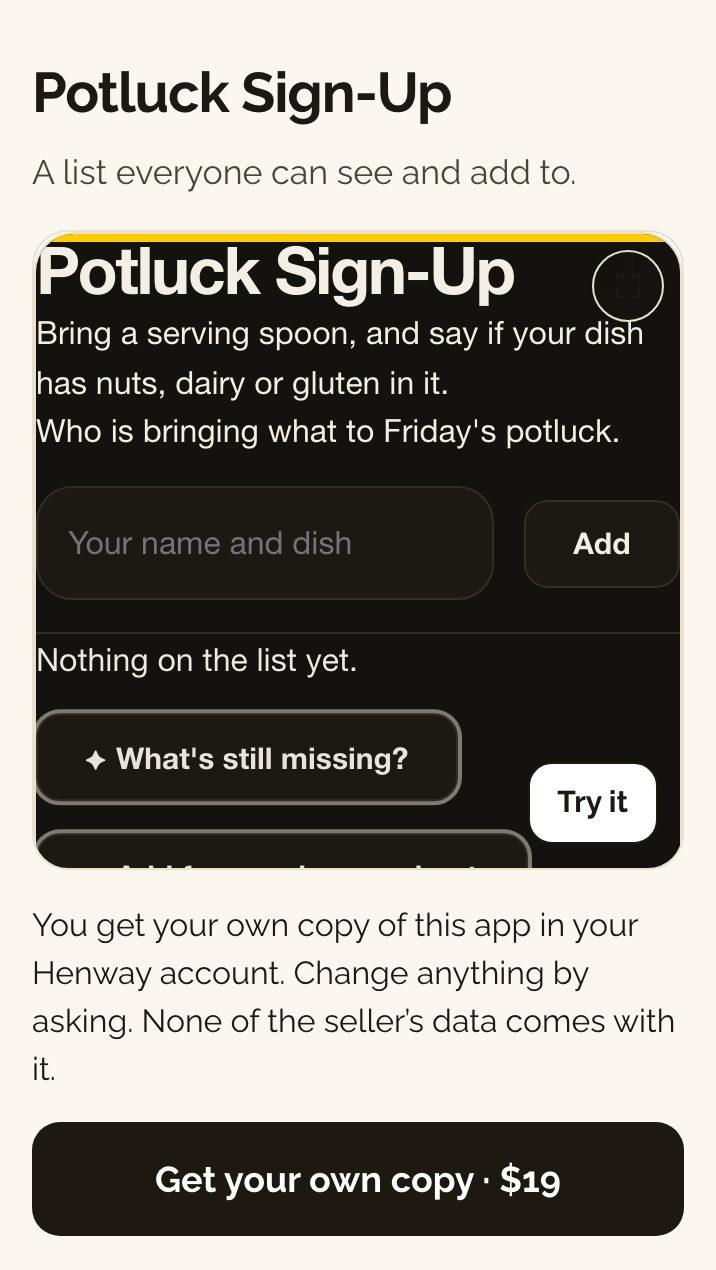
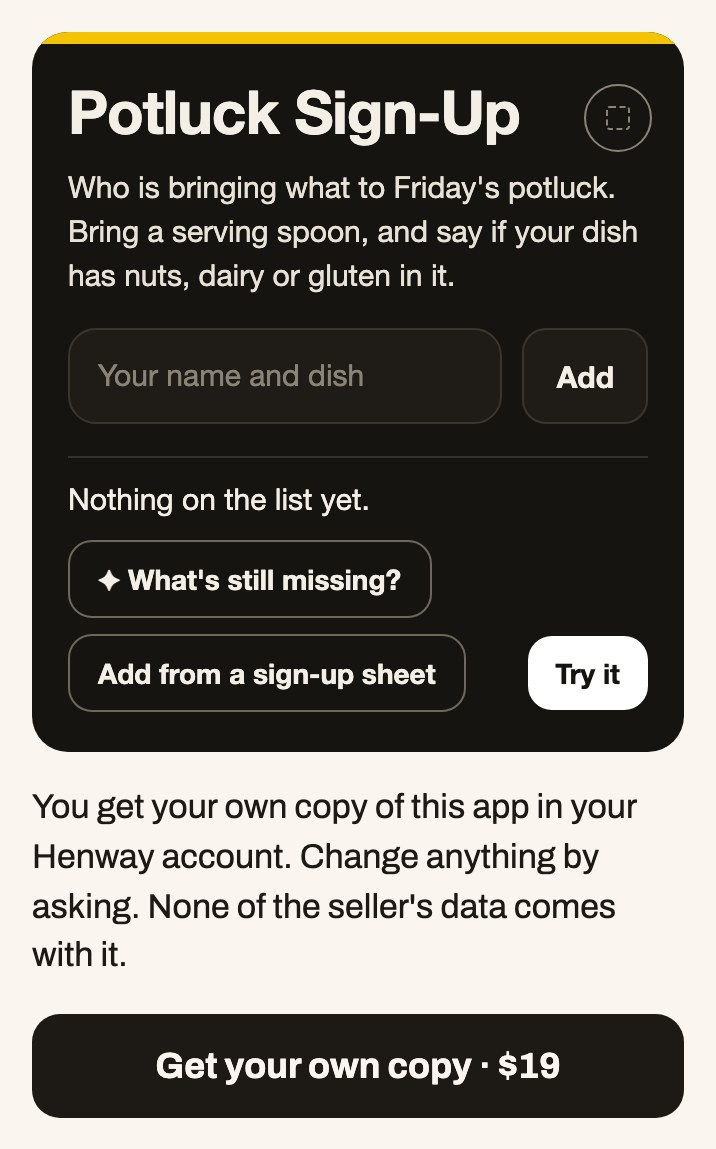
Mobile fixes: sell card capture, sub-nav fit, approved refund policy
- Home sell card 2: redrawn sell page at card width (source in
  scripts/v6/draw/sell-copy.html). No repeated app title, inner padding,
  no cut pill row, no max-height crop on desktop.
- Phone sub-nav: all five chips fit at 360 and 390 (14px, condensed,
  tighter padding). "Log in" no longer wraps at 360.
- Hero phone at <=380px renders text at 11px or more.
- /support refunds: Michael's approved policy replaces TODO-MICHAEL; the
  payments/copies line is gated behind payments. Pricing FAQ matches.
  /get-paid: "Henway's fee on it goes back too".
- Rubric: navfit, capfit, headwrap and site-wide TODO-MICHAEL checks, each
  shown failing on the prior build; 360 added to rubric and mobile widths.

diff --git a/site/pricing.html b/site/pricing.html
@@ -69,7 +69,7 @@ html.g-payments [data-ungate~=payments],html.g-copies [data-ungate~=copies],html
   <div class="big5" data-live="fee">5%</div>
   <h2 class="hh h2" style="margin-top:16px">Sell inside <span style="color:var(--yellow)">your app.</span></h2>
   <p class="lede">Classes, challenges, plans. Clients pay in the app. Henway's fee is 5% of each payment.</p>
-  <ul><li>No monthly charge</li><li>Stripe's card fee comes out of each payment</li><li>Refund a payment and Henway's 5% goes back too</li><li>Payouts to your bank, through Stripe</li><li><a href="/get-paid/setup">How setup works, step by step</a></li></ul></div>
+  <ul><li>No monthly charge</li><li>Stripe's card fee comes out of each payment</li><li>Refund a payment and Henway's fee on it goes back too</li><li>Payouts to your bank, through Stripe</li><li><a href="/get-paid/setup">How setup works, step by step</a></li></ul></div>
  <div class="vis" style="max-width:440px;justify-self:center;width:100%"><div class="wl"><div class="wlc">
    <div class="wlt">January Challenge</div><p class="wlp" style="color:#4d4d58">4 weeks with Coach Tasha</p>
    <div class="price">$40</div><div class="acts"><span class="wlb">Pay $40</span></div></div>
@@ -92,7 +92,7 @@ html.g-payments [data-ungate~=payments],html.g-copies [data-ungate~=copies],html
  <span class="kick">Questions</span>
  <div class="faq">
   <details><summary>Can I change my free app?</summary><p>Yes. Say what you want different and the app updates. Free apps change too.</p></details>
-  <details><summary>What happens after 6 months?</summary><p>If an app goes 6 months with nothing new saved, its saved data is cleared. The app itself stays. Apps you keep for $9, and apps on a paid plan, are kept as they are.</p></details><details id="refunds"><summary>Can I get a refund?</summary><p>See the refund policy on the <a href="/support#refunds">support page</a>.</p></details>
+  <details><summary>What happens after 6 months?</summary><p>If an app goes 6 months with nothing new saved, its saved data is cleared. The app itself stays. Apps you keep for $9, and apps on a paid plan, are kept as they are.</p></details><details id="refunds"><summary>Can I get a refund?</summary><ul class="refunds"><li><b>Keep an app, $9:</b> if your app doesn't do what you asked and we can't fix it, email <a href="mailto:support@henwayai.com?subject=Refund">support@henwayai.com</a> and we refund the $9. A refunded app goes back to the free limits.</li><li><b>Build it with Michael, $150:</b> full refund if you cancel at least 24 hours before. Inside 24 hours, you can move it once.</li><li data-gate="payments"><b>Payments and copies sold through your app:</b> you set your own refund policy. When you refund one, Henway's fee on it goes back too.</li></ul></details>
   <details><summary>What's an AI answer?</summary><p>Some apps have a button that reads a photo or suggests something. Each tap is one answer. Free apps get <span data-live="ai-free">20</span> a day. Kept apps get <span data-live="ai-paid">200</span>.</p></details>
   <details><summary>Is $9 a subscription?</summary><p>No. You pay once for each app you keep.</p></details>
  </div>

diff --git a/scripts/v6/draw/sell-copy.html b/scripts/v6/draw/sell-copy.html
@@ -1,0 +1,32 @@
+<!doctype html><html><head><meta name="viewport" content="width=device-width,initial-scale=1">
+<link href="https://fonts.googleapis.com/css2?family=Archivo:wdth,wght@62..125,400..900&display=swap" rel="stylesheet">
+<style>
+*{box-sizing:border-box;margin:0}
+html,body{background:#faf6ef}
+body{padding:16px 16px 18px;font-family:Archivo,system-ui,sans-serif;color:#1d1a15}
+.app{background:#161410;border-radius:18px;overflow:hidden;padding:24px 18px 20px;color:#f4efe6;font-family:"Helvetica Neue",Helvetica,Arial,sans-serif;position:relative}
+.app h4{font-size:30px;font-weight:800;letter-spacing:-.5px;line-height:1.1;padding-right:44px}
+.ex{position:absolute;right:16px;top:20px;width:34px;height:34px;border:1.5px solid #8a8478;border-radius:50%}
+.ex:after{content:"";position:absolute;inset:10px;border:1.5px dashed #8a8478;border-radius:2px}
+.app p{font-size:15px;line-height:1.45;margin-top:10px;color:#e8e2d6}
+.row{display:flex;gap:10px;margin-top:16px}
+.in{flex:1;border:1.5px solid #3a362e;background:#1f1c17;border-radius:14px;padding:14px;font-size:15px;color:#8a8478}
+.add{border:1.5px solid #3a362e;background:#1f1c17;border-radius:12px;padding:14px 16px;font-weight:700;font-size:15px}
+hr{border:0;border-top:1px solid #34302a;margin:16px 0 12px}
+.none{font-size:15px}
+.pills{display:flex;flex-wrap:wrap;gap:8px;margin-top:12px;align-items:center}
+.pill{border:1.5px solid #6d685e;border-radius:12px;padding:10px 14px;font-weight:700;font-size:14px}
+.try{margin-left:auto;background:#fff;color:#161410;border-radius:12px;padding:10px 14px;font-weight:700;font-size:14px}
+.say{font-size:17px;line-height:1.45;margin-top:16px}
+.buy{display:block;margin-top:16px;background:#1d1a15;color:#faf6ef;border-radius:14px;text-align:center;padding:16px;font-weight:700;font-size:18px}
+.app:before{content:"";position:absolute;left:0;right:0;top:0;height:6px;background:#f5c400}
+.ex{top:26px}</style></head><body>
+<div class="app"><h4>Potluck Sign-Up</h4><span class="ex"></span>
+<p>Who is bringing what to Friday's potluck. Bring a serving spoon, and say if your dish has nuts, dairy or gluten in it.</p>
+<div class="row"><div class="in">Your name and dish</div><div class="add">Add</div></div>
+<hr><div class="none">Nothing on the list yet.</div>
+<div class="pills"><span class="pill">✦ What's still missing?</span><span class="pill">Add from a sign-up sheet</span><span class="try">Try it</span></div>
+</div>
+<p class="say">You get your own copy of this app in your Henway account. Change anything by asking. None of the seller's data comes with it.</p>
+<span class="buy">Get your own copy · $19</span>
+</body></html>

diff --git a/site/support.html b/site/support.html
@@ -53,7 +53,7 @@ html.g-payments [data-ungate~=payments],html.g-copies [data-ungate~=copies],html
 <section id="refunds"><div class="wrap" style="max-width:860px">
  <span class="kick">Refunds</span>
  <h2 class="hh h2">Refund policy</h2>
- <div class="todo"><b>TODO-MICHAEL</b><p>Placeholder. The refund policy for the $9 keep, the $150 hour and payments inside apps goes here. It is waiting on Michael.</p></div>
+ <ul class="refunds"><li><b>Keep an app, $9:</b> if your app doesn't do what you asked and we can't fix it, email <a href="mailto:support@henwayai.com?subject=Refund">support@henwayai.com</a> and we refund the $9. A refunded app goes back to the free limits.</li><li><b>Build it with Michael, $150:</b> full refund if you cancel at least 24 hours before. Inside 24 hours, you can move it once.</li><li data-gate="payments"><b>Payments and copies sold through your app:</b> you set your own refund policy. When you refund one, Henway's fee on it goes back too.</li></ul>
 </div></section><footer class="foot"><div class="wrap">
 <div><img src="/v6/img/logo-black.png" alt="Henway" width="112" height="28"><p>If you can complain to a friend, you can make an app.</p></div>
 <div><b>Product</b><a href="/apps">Starter apps</a><a href="/method">How it works</a><a href="/pricing">Pricing</a><a href="/trust">Trust</a><a href="/get-paid" data-gate="payments">Get paid</a></div>

diff --git a/site/get-paid.html b/site/get-paid.html
@@ -63,7 +63,7 @@ html.g-payments [data-ungate~=payments],html.g-copies [data-ungate~=copies],html
  <span class="kick">The fee</span><h2 class="hh h2" style="margin-bottom:22px">5% on payments.<span data-gate="copies"> <span class="hl">10% on copies.</span></span></h2>
  <div class="spec"><div><b>In-app payments</b><span>5% of each payment. No monthly charge.</span></div>
   <div data-gate="copies"><b>Copies of your app</b><span>You set the price, $9 or more. Henway keeps 10% when they buy from your link.</span></div>
-  <div><b>Card processing</b><span>Stripe's card fee comes out of each payment. Stripe handles cards and payouts.</span></div><div><b>Refunds</b><span>Refund a payment and Henway's 5% goes back too.</span></div></div>
+  <div><b>Card processing</b><span>Stripe's card fee comes out of each payment. Stripe handles cards and payouts.</span></div><div><b>Refunds</b><span>Refund a payment and Henway's fee on it goes back too.</span></div></div>
 </div></section>
 <section class="closer" style="background:var(--egg)"><div class="wrap"><h2 class="hh h2">Build the app. <span class="hl">Then sell it.</span></h2><p class="lede">Your first app is free.</p><a class="btn go" href="https://app.henwayai.com/try" data-cta="start">Start free</a></div></section>
 <footer class="foot"><div class="wrap">

diff --git a/site/v6/fresh.css b/site/v6/fresh.css
@@ -156,12 +156,12 @@
 .fx .way2 h3{font-size:clamp(24px,2.4vw,30px);font-weight:850;letter-spacing:-.025em;line-height:1.05;margin:0}
 .fx .way2 p{margin:0;font-size:17px;color:var(--muted)}
 .fx .way2 .shotw{background:var(--off);border-radius:18px;padding:18px}
-.fx .way2 .shotw.cap{padding:0;overflow:hidden;border:1.5px solid var(--line);max-height:520px}
+.fx .way2 .shotw.cap{padding:0;overflow:hidden;border:1.5px solid var(--line);max-width:340px;margin-left:auto;margin-right:auto}
 .fx .way2 .shotw.cap img{width:100%;height:auto}
 @media(max-width:900px){.fx .ways{grid-template-columns:1fr;max-width:520px;margin-left:auto;margin-right:auto}}
 @media(max-width:640px){
  .fx .way2{padding:18px}
- .fx .way2 .shotw.cap{margin:0 -18px;border-radius:0;border-width:1.5px 0;max-height:none}
+ .fx .way2 .shotw.cap{margin:0 -18px;max-width:none;border-radius:0;border-width:1.5px 0}
  .fx .way2 .shotw{margin:0 -18px;border-radius:0;padding:14px 18px}
  .fx .pw .phone{width:min(340px,calc(100vw - 40px));transform:none}
  .fx .chick{right:-4px}
@@ -174,3 +174,4 @@
  .fx .buybar .btn{flex:none}
  .fx.story{padding-bottom:84px}
 }
+@media(max-width:380px){.fx .pw .phone{width:calc(100vw - 32px);padding:5px;border-radius:36px}.fx .pw .phone img{border-radius:31px}}

diff --git a/site/v6/v6.css b/site/v6/v6.css
@@ -312,11 +312,14 @@ table.t td:first-child{font-weight:800;white-space:nowrap}
 .shotph b{display:block;font-size:18px}.shotph span{font-size:16px;color:var(--muted)}
 @media(max-width:820px){.cmp td:first-child{width:auto}}
 .todo{border:2px dashed #d9442b;border-radius:16px;padding:18px;background:#fff6f2}.todo b{color:#9e2814;letter-spacing:.08em}.todo p{margin:6px 0 0}
+.refunds{margin:14px 0 0;padding-left:1.2em;display:grid;gap:10px}.refunds li{line-height:1.5}
 img{height:auto}
 .top nav.mnav{display:none}
 @media(max-width:900px){.top nav.mnav{display:flex}}
 .mnav a{min-height:44px;display:inline-flex;align-items:center}
 .top nav.mnav a.cur{background:var(--ink);color:var(--paper)}
+.top a.login{white-space:nowrap}
+@media(max-width:600px){.top nav.mnav{gap:3px;padding:0 12px 12px;justify-content:space-between}.top nav.mnav a{font-size:14px;font-stretch:80%;padding:0 7px;letter-spacing:0}}
 .top .logo{flex:none}.top .logo img{width:120px;height:30px}
 .foot a{padding:12px 0;min-height:44px;box-sizing:border-box}
 .top .login{min-height:44px;display:inline-flex;align-items:center}

diff --git a/site/index.html b/site/index.html
@@ -149,7 +149,7 @@ html.g-payments [data-ungate~=payments],html.g-copies [data-ungate~=copies],html
   </div>
   <div class="way2">
    <span class="n">2</span><h3>Sell copies of your app.</h3>
-   <div class="shotw cap"><img src="/v6/img/sell-copy.jpg" width="716" height="1270" loading="lazy" alt="A sell page: Potluck Sign-Up, a preview of the app, and a button that reads Get your own copy, $19"></div>
+   <div class="shotw cap"><img src="/v6/img/sell-copy.jpg" width="716" height="1149" loading="lazy" alt="A sell page: a preview of the Potluck Sign-Up app, and a button that reads Get your own copy, $19"></div>
    <p>The buyer gets their own copy with none of your data. Henway keeps 10% from your link.</p>
   </div>
  </div>

diff --git a/scripts/v6/build_v6.py b/scripts/v6/build_v6.py
@@ -225,14 +225,14 @@ def pricing():
     h = gate(h, '<section class="paid" style="margin-top:56px">', "payments")
     h = sub(h, '<div class="big5">5%</div>', '<div class="big5" data-live="fee">5%</div>')
     h = sub(h, "<li>No monthly charge</li><li>Payouts to your bank, through Stripe</li><li>Turn it on with one sentence</li>",
-            "<li>No monthly charge</li><li>Stripe's card fee comes out of each payment</li><li>Refund a payment and Henway's 5% goes back too</li><li>Payouts to your bank, through Stripe</li><li><a href=\"/get-paid/setup\">How setup works, step by step</a></li>")
+            "<li>No monthly charge</li><li>Stripe's card fee comes out of each payment</li><li>Refund a payment and Henway's fee on it goes back too</li><li>Payouts to your bank, through Stripe</li><li><a href=\"/get-paid/setup\">How setup works, step by step</a></li>")
     for tid, (m, y) in {"tier_1": ("$29", "or $249 a year"), "tier_2": ("$139", "or $1,199 a year"), "tier_3": ("$249", "or $1,999 a year")}.items():
         h = sub(h, f'<div class="a">{m}<small>/mo</small></div><div class="y">{y}</div>',
                 f'<div class="a"><span data-live="m-{tid}">{m}</span><small>/mo</small></div><div class="y" data-live="y-{tid}">{y}</div>')
     h = sub(h, 'href="https://www.henwayai.com/consultants"', 'href="/consultants"')
     h = sub(h, "<details><summary>What happens after 6 months?</summary><p>A free app nobody opens for 6 months gets cleared. Keep it for $9, once, and it stays.</p></details>",
             "<details><summary>What happens after 6 months?</summary><p>If an app goes 6 months with nothing new saved, its saved data is cleared. The app itself stays. Apps you keep for $9, and apps on a paid plan, are kept as they are.</p></details>"
-            '<details id="refunds"><summary>Can I get a refund?</summary><p>See the refund policy on the <a href="/support#refunds">support page</a>.</p></details>')
+            '<details id="refunds"><summary>Can I get a refund?</summary><ul class="refunds">' + REFUND_ITEMS.replace("{SUPPORT_EMAIL}", SUPPORT_EMAIL) + '</ul></details>')
     h = sub(h, "Free apps get 20 a day. Kept apps get 200.", 'Free apps get <span data-live="ai-free">20</span> a day. Kept apps get <span data-live="ai-paid">200</span>.')
     return page("pricing", "Henway pricing: first app free, keep it for $9 once",
                 "Your first app is free, with no card. Keep it for $9, once, with no monthly bill. Or build it with Michael for $150. Monthly plans are for consultants and agencies.",
@@ -318,7 +318,7 @@ def getpaid():
             "<p class=\"lede\">Sell inside it<span data-gate=\"copies\">, or sell copies of it</span>. Henway keeps 5% of payments<span data-gate=\"copies\"> and 10% of copies sold from your link</span>. No monthly charge.</p>")
     h = sub(h, "<div><b>Card processing</b><span>Stripe handles cards and payouts.</span></div>",
             "<div><b>Card processing</b><span>Stripe's card fee comes out of each payment. Stripe handles cards and payouts.</span></div>"
-            "<div><b>Refunds</b><span>Refund a payment and Henway's 5% goes back too.</span></div>")
+            "<div><b>Refunds</b><span>Refund a payment and Henway's fee on it goes back too.</span></div>")
     h = sub(h, '<span class="kick">Set up</span><h2 class="hh h2" style="margin-bottom:26px">Paid in <span class="hl">three steps.</span></h2>',
             '<span class="kick">Set up</span><h2 class="hh h2" style="margin-bottom:26px">Paid in <span class="hl">three steps.</span></h2><p style="margin:-10px 0 22px;font-weight:700"><a href="/get-paid/setup">See every screen, step by step →</a></p>')
     h = sub(h, '<span>by Coach Tasha</span></div><span class="pr">$19</span>', '<span>by a coach</span></div><span class="pr">$19</span>')
@@ -435,11 +435,14 @@ EXTRA_CSS = """
 .shotph b{display:block;font-size:18px}.shotph span{font-size:16px;color:var(--muted)}
 @media(max-width:820px){.cmp td:first-child{width:auto}}
 .todo{border:2px dashed #d9442b;border-radius:16px;padding:18px;background:#fff6f2}.todo b{color:#9e2814;letter-spacing:.08em}.todo p{margin:6px 0 0}
+.refunds{margin:14px 0 0;padding-left:1.2em;display:grid;gap:10px}.refunds li{line-height:1.5}
 img{height:auto}
 .top nav.mnav{display:none}
 @media(max-width:900px){.top nav.mnav{display:flex}}
 .mnav a{min-height:44px;display:inline-flex;align-items:center}
 .top nav.mnav a.cur{background:var(--ink);color:var(--paper)}
+.top a.login{white-space:nowrap}
+@media(max-width:600px){.top nav.mnav{gap:3px;padding:0 12px 12px;justify-content:space-between}.top nav.mnav a{font-size:14px;font-stretch:80%;padding:0 7px;letter-spacing:0}}
 .top .logo{flex:none}.top .logo img{width:120px;height:30px}
 .foot a{padding:12px 0;min-height:44px;box-sizing:border-box}
 .top .login{min-height:44px;display:inline-flex;align-items:center}
@@ -460,6 +463,21 @@ img{height:auto}
 
 
 RETENTION = "If an app goes 6 months with nothing new saved, its saved data is cleared. The app itself stays. Apps you keep for $9, and apps on a paid plan, are kept as they are."
+
+# Refund policy: approved by Michael 2026-11-22 (via the coordinator). The payments/copies
+# line rests on backend/app/app_payments.py _return_fee: charge.refunded hands back the
+# application fee on any charge on a known connected account, and copies sales
+# carry application_fee_amount on those same accounts (henway origin/main 3a776a6).
+REFUND_ITEMS = (
+    "<li><b>Keep an app, $9:</b> if your app doesn't do what you asked and we can't fix it, email "
+    "<a href=\"mailto:{SUPPORT_EMAIL}?subject=Refund\">{SUPPORT_EMAIL}</a> and we refund the $9. "
+    "A refunded app goes back to the free limits.</li>"
+    "<li><b>Build it with Michael, $150:</b> full refund if you cancel at least 24 hours before. "
+    "Inside 24 hours, you can move it once.</li>"
+    "<li data-gate=\"payments\"><b>Payments and copies sold through your app:</b> you set your own refund policy. "
+    "When you refund one, Henway's fee on it goes back too.</li>"
+)
+
 
 def support_page():
     qa = [
@@ -485,7 +503,7 @@ def support_page():
 <section id="refunds"><div class="wrap" style="max-width:860px">
  <span class="kick">Refunds</span>
  <h2 class="hh h2">Refund policy</h2>
- <div class="todo"><b>TODO-MICHAEL</b><p>Placeholder. The refund policy for the $9 keep, the $150 hour and payments inside apps goes here. It is waiting on Michael.</p></div>
+ <ul class="refunds">''' + REFUND_ITEMS.replace("{SUPPORT_EMAIL}", SUPPORT_EMAIL) + '''</ul>
 </div></section>''' + FOOT
     return page("support", "Henway support: help with your app, logging in and refunds",
                 f"Email {SUPPORT_EMAIL} and a person answers. Find your apps, log in, change an app, and what happens after 6 months.",

diff --git a/scripts/v6/fresh.py b/scripts/v6/fresh.py
@@ -354,7 +354,7 @@ def home_body(mine):
   </div>
   <div class="way2">
    <span class="n">2</span><h3>Sell copies of your app.</h3>
-   <div class="shotw cap"><img src="/v6/img/sell-copy.jpg" width="716" height="1270" loading="lazy" alt="A sell page: Potluck Sign-Up, a preview of the app, and a button that reads Get your own copy, $19"></div>
+   <div class="shotw cap"><img src="/v6/img/sell-copy.jpg" width="716" height="1149" loading="lazy" alt="A sell page: a preview of the Potluck Sign-Up app, and a button that reads Get your own copy, $19"></div>
    <p>The buyer gets their own copy with none of your data. Henway keeps 10% from your link.</p>
   </div>
  </div>
@@ -493,12 +493,12 @@ EXTRA = """
 .fx .way2 h3{font-size:clamp(24px,2.4vw,30px);font-weight:850;letter-spacing:-.025em;line-height:1.05;margin:0}
 .fx .way2 p{margin:0;font-size:17px;color:var(--muted)}
 .fx .way2 .shotw{background:var(--off);border-radius:18px;padding:18px}
-.fx .way2 .shotw.cap{padding:0;overflow:hidden;border:1.5px solid var(--line);max-height:520px}
+.fx .way2 .shotw.cap{padding:0;overflow:hidden;border:1.5px solid var(--line);max-width:340px;margin-left:auto;margin-right:auto}
 .fx .way2 .shotw.cap img{width:100%;height:auto}
 @media(max-width:900px){.fx .ways{grid-template-columns:1fr;max-width:520px;margin-left:auto;margin-right:auto}}
 @media(max-width:640px){
  .fx .way2{padding:18px}
- .fx .way2 .shotw.cap{margin:0 -18px;border-radius:0;border-width:1.5px 0;max-height:none}
+ .fx .way2 .shotw.cap{margin:0 -18px;max-width:none;border-radius:0;border-width:1.5px 0}
  .fx .way2 .shotw{margin:0 -18px;border-radius:0;padding:14px 18px}
  .fx .pw .phone{width:min(340px,calc(100vw - 40px));transform:none}
  .fx .chick{right:-4px}
@@ -511,4 +511,5 @@ EXTRA = """
  .fx .buybar .btn{flex:none}
  .fx.story{padding-bottom:84px}
 }
+@media(max-width:380px){.fx .pw .phone{width:calc(100vw - 32px);padding:5px;border-radius:36px}.fx .pw .phone img{border-radius:31px}}
 """
